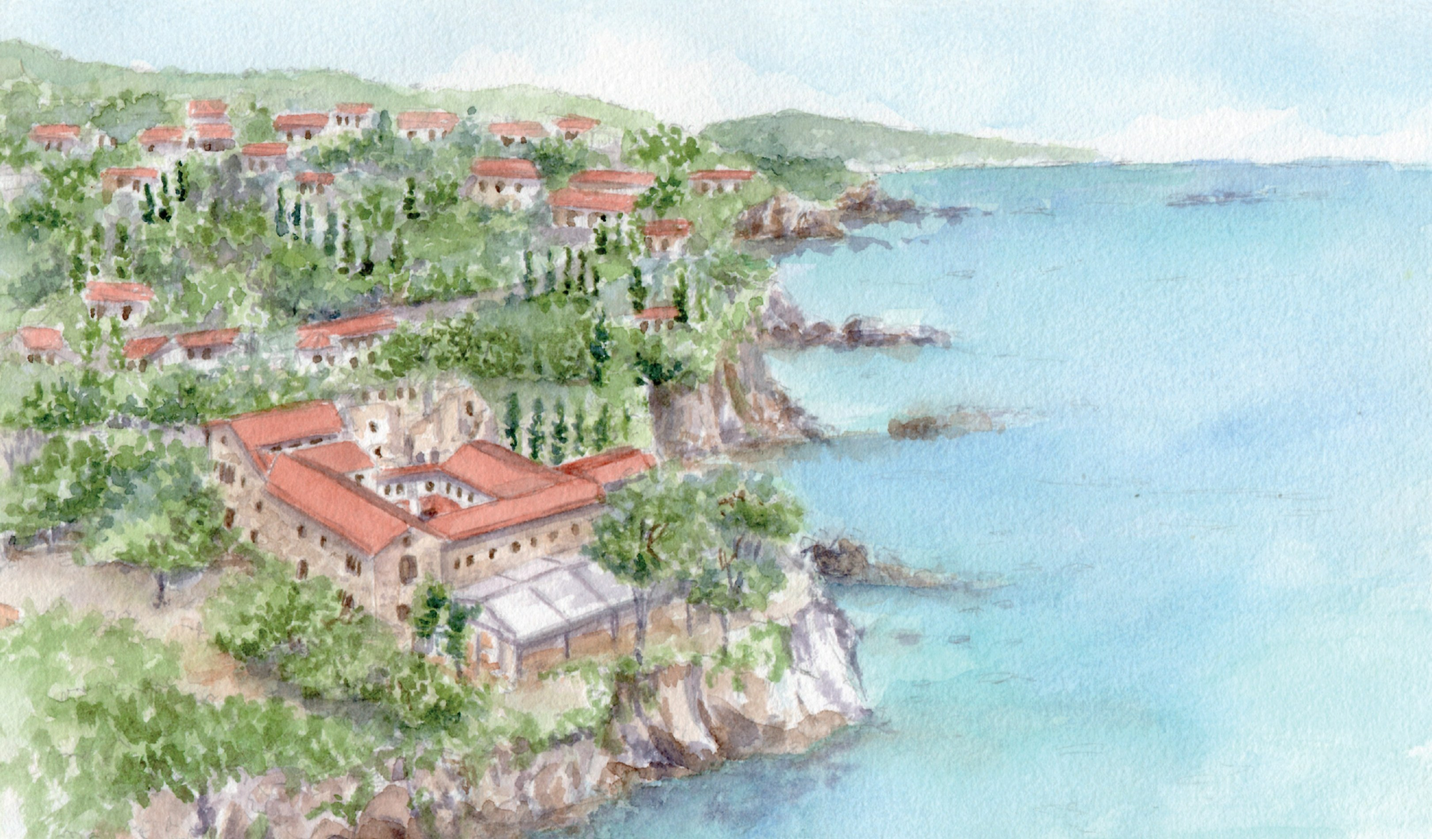
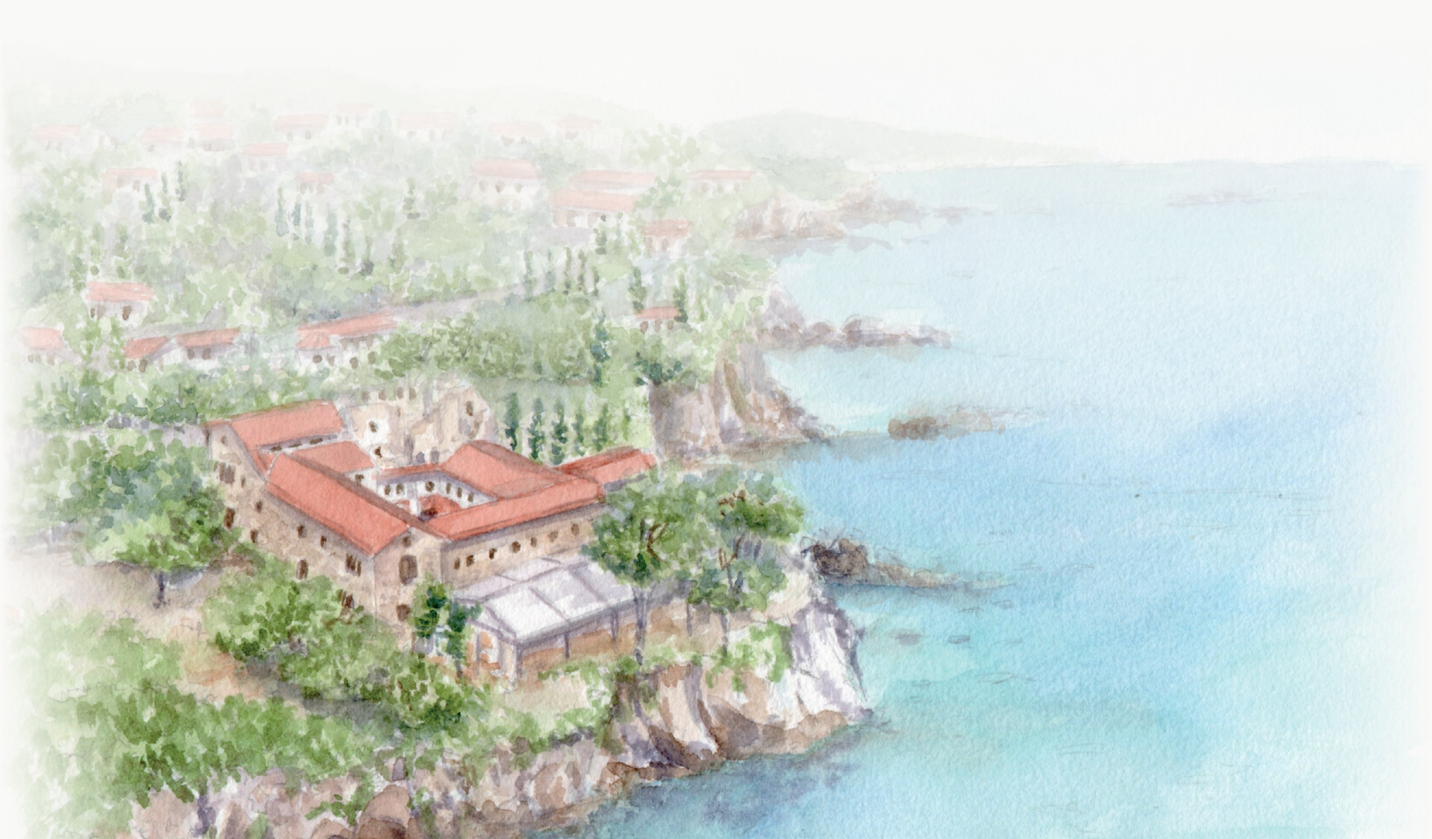
Esfuma a aquarela do desktop no papel (topo e laterais)
O corte panorâmico agora traz o esfumado embutido na própria imagem:
o desenho se dissolve gradualmente no papel no alto e nas laterais,
como mancha de aquarela, em vez de terminar em linha seca. A borda
inferior segue 100% opaca, encostada na seção seguinte.

Claude-Session: https://claude.ai/code/session_01VxJdiQx7LhnXHpQrst8FVi

diff --git a/src/app/globals.css b/src/app/globals.css
@@ -370,14 +370,18 @@ a { text-decoration: none; color: inherit; }
   content: ""; position: absolute; inset: 0 0 auto 0; height: 90px;
   background: linear-gradient(to bottom, var(--bg), rgba(250, 250, 248, 0));
 }
-/* Em telas largas usa o corte panorâmico do mesmo quadro, na proporção
-   original — a cena inteira (vila, convento e mar) aparece sem cortes. */
+/* Em telas largas usa o corte panorâmico do mesmo quadro, com o esfumado
+   já embutido na imagem: o desenho se dissolve no papel no alto e nas
+   laterais, como uma mancha de aquarela — nunca termina numa linha seca.
+   A borda de baixo permanece 100% opaca para encostar na seção seguinte. */
 @media (min-width: 641px) {
   .ij-hero-art {
     aspect-ratio: 3240 / 1900;
     max-height: 68vh;
     background-image: url('/assets/convite-aquarela-wide.jpg');
   }
+  /* o esfumado embutido dispensa o degradê extra */
+  .ij-hero-art::before { content: none; }
 }
 .ij-hero-meta {
   margin: 34px 0 0; max-width: 460px;
